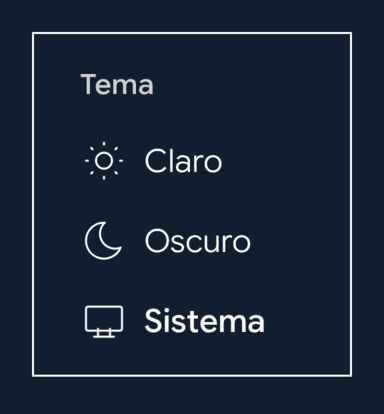
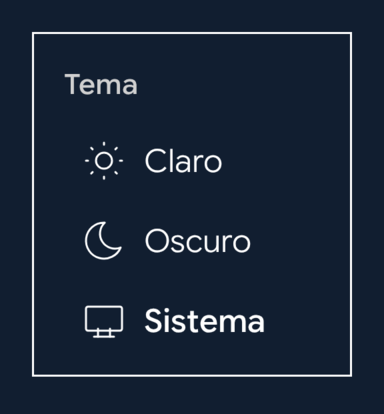
fix(native): el rótulo de sección del menú de Android, sin los 8 dp de más
En React `.menu__label` solo lleva su `menu.label-padding-inline` (16) desde
el borde del panel: el `margin-inline` de `menu.padding-inline` es de
`.menu__item`, no del rótulo. Compose le sumaba los dos (8 + 16 = 24 dp);
ahora lleva solo `menu.label-padding-inline` (16 dp), como la web.

iOS no tiene la deriva: el panel es el `Menu` del sistema y los `.label` son
`Section`, sin sangrado propio.

Regrabadas las capturas de Paparazzi con rótulo (MenuSnapshotTest y los
paneles «radio» y «mixto» de R6ComparisonSnapshotTest) y sus parejas en
native/android/Comparisons/Menu/.

Claude-Session: https://claude.ai/code/session_01TgFyWwWQRDkhxQPB1RhMMC

Changed region(s): [[0.1562, 0.1739, 0.4062, 0.2319]]

diff --git a/native/android/brand/src/main/kotlin/com/studiolxd/brand/components/menu/BrandMenu.kt b/native/android/brand/src/main/kotlin/com/studiolxd/brand/components/menu/BrandMenu.kt
@@ -280,7 +280,9 @@ private fun BrandMenuPopup(expanded: Boolean, onDismissRequest: () -> Unit, alig
 
 /**
  * El panel del menú: fondo y borde de `menu.*`, con el aire `menu.padding-block` arriba y abajo y los ítems inseteados
- * `menu.padding-inline`; los separadores van de borde a borde. Interno: también lo pintan las capturas.
+ * `menu.padding-inline`; los separadores van de borde a borde y el rótulo de sección solo lleva su `menu.label-padding-inline`
+ * desde el borde del panel (en React `.menu__label` no tiene el `margin-inline` de los ítems). Interno: también lo pintan
+ * las capturas.
  */
 @Composable
 internal fun BrandMenuPanel(
@@ -319,7 +321,7 @@ internal fun BrandMenuPanel(
                 )
                 is BrandMenuItem.Label -> BasicText(
                     item.text,
-                    modifier = Modifier.fillMaxWidth().padding(horizontal = T.paddingInline + T.labelPaddingInline, vertical = T.labelPaddingBlock),
+                    modifier = Modifier.fillMaxWidth().padding(horizontal = T.labelPaddingInline, vertical = T.labelPaddingBlock),
                     style = brandTextStyle(T.labelFontSize, T.labelFontWeight, T.itemLineHeight, color = T.labelColor.current),
                 )
                 is BrandMenuItem.Button -> MenuRow(
